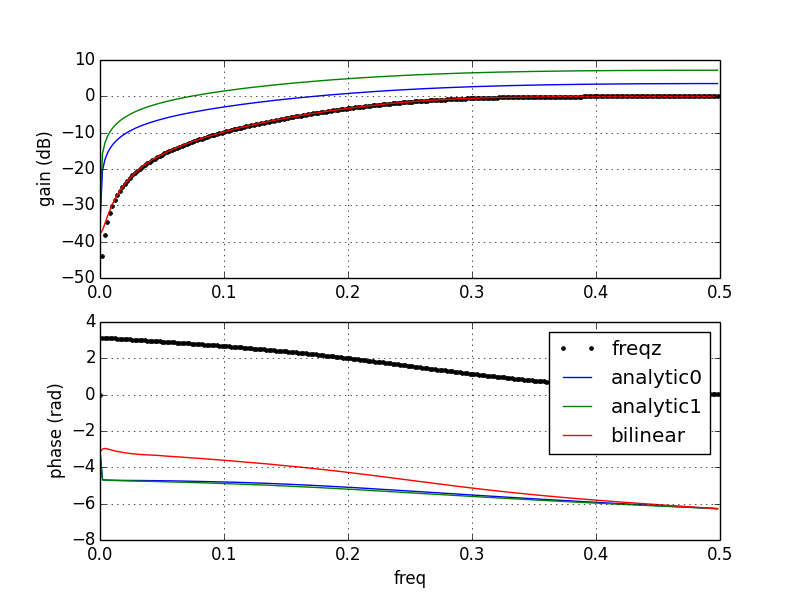
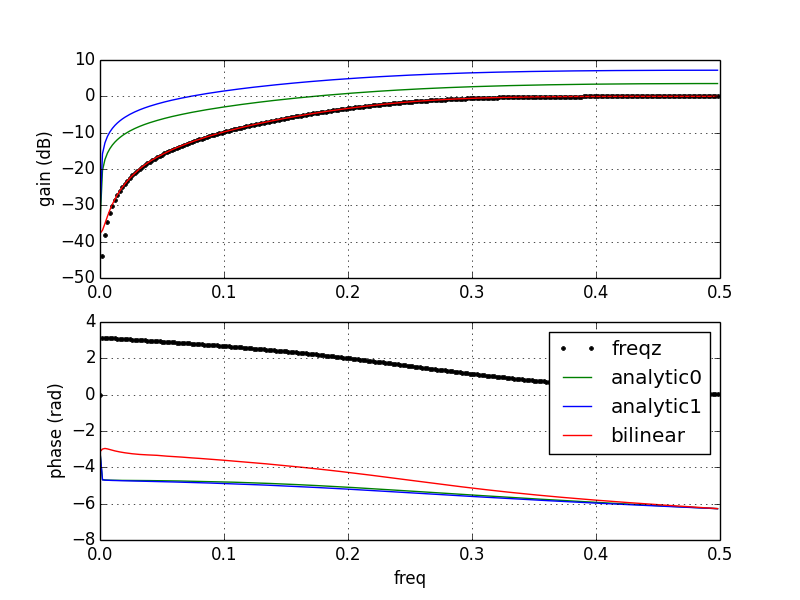
explicitly set comparison plot colors

diff --git a/iir_analyze.py b/iir_analyze.py
@@ -57,13 +57,13 @@ def analyze_filter(sample_freq, cutoff_freq, order, btype):
     plot_inputs('%s-' % btype, input_t, input_x, fft_freq, input_fft)
 
     plot_outputs('%s-' % btype, input_t, fft_freq, [
-        ('lfilter', lfilter_output, lfilter_fft),
-        ('statespace', statespace_output, statespace_fft),
+        ('lfilter', 'black', lfilter_output, lfilter_fft),
+        ('statespace', 'red', statespace_output, statespace_fft),
     ])
 
     plot_transfer_function('%s-' % btype, freqz_freq, freqz_amplitude, freqz_phase, fft_freq, input_fft, [
-        ('lfilter', lfilter_fft),
-        ('statespace', statespace_fft),
+        ('lfilter', 'black', lfilter_fft),
+        ('statespace', 'red', statespace_fft),
     ])
 
 
@@ -85,18 +85,24 @@ def compare_methods(sample_freq, cutoff_freq, order, btype):
 
     # FFT the result of filtering the chirp by all types of filters.
     ffts = {
-        method_name: fft.fft(output)[0:len(fft_freq)] for method_name, output in outputs.iteritems()
+        method: fft.fft(output)[0:len(fft_freq)] for method, output in outputs.iteritems()
     }
 
     # Plot everything: input chirp, filtered chirp, and filter transfer function.
     plot_inputs('compare-%s-' % btype, input_t, input_x, fft_freq, input_fft)
 
+    colors = {
+        'bilinear': 'red',
+        'analytic0': 'green',
+        'analytic1': 'blue',
+    }
+
     plot_outputs('compare-%s-' % btype, input_t, fft_freq, [
-        (method_name, outputs[method_name], ffts[method_name]) for method_name in sorted(outputs.keys())
+        (method, colors[method], outputs[method], ffts[method]) for method in sorted(outputs.keys())
     ])
 
     plot_transfer_function('compare-%s-' % btype, freqz_freq, freqz_amplitude, freqz_phase, fft_freq, input_fft, [
-        (method_name, ffts[method_name]) for method_name in sorted(outputs.keys())
+        (method, colors[method], ffts[method]) for method in sorted(outputs.keys())
     ])
 
 
@@ -158,8 +164,8 @@ def plot_outputs(name_prefix, input_t, fft_freq, outputs):
 
     plt.subplot(311)
 
-    for name, output, output_fft in outputs:
-        plt.plot(input_t, output, label=name)
+    for name, color, output, output_fft in outputs:
+        plt.plot(input_t, output, label=name, color=color)
 
     plt.grid()
     plt.xlabel('time')
@@ -167,8 +173,8 @@ def plot_outputs(name_prefix, input_t, fft_freq, outputs):
 
     plt.subplot(312)
 
-    for name, output, output_fft in outputs:
-        plt.plot(fft_freq, 10 * np.log10(np.abs(output_fft)), label=name)
+    for name, color, output, output_fft in outputs:
+        plt.plot(fft_freq, 10 * np.log10(np.abs(output_fft)), label=name, color=color)
 
     plt.grid()
     plt.xlabel('freq')
@@ -176,8 +182,8 @@ def plot_outputs(name_prefix, input_t, fft_freq, outputs):
 
     plt.subplot(313)
 
-    for name, output, output_fft in outputs:
-        plt.plot(fft_freq, np.unwrap(np.angle(output_fft)), label=name)
+    for name, color, output, output_fft in outputs:
+        plt.plot(fft_freq, np.unwrap(np.angle(output_fft)), label=name, color=color)
 
     plt.grid()
     plt.legend(loc='lower right')
@@ -196,8 +202,8 @@ def plot_transfer_function(name_prefix, freqz_freq, freqz_amplitude, freqz_phase
     plt.subplot(211)
     plt.plot(freqz_freq, 10 * np.log10(freqz_amplitude), '.', color='black', label='freqz')
 
-    for name, output_fft in outputs:
-        plt.plot(fft_freq, 10 * np.log10(np.abs(output_fft)) - 10 * np.log10(np.abs(input_fft)), label=name)
+    for name, color, output_fft in outputs:
+        plt.plot(fft_freq, 10 * np.log10(np.abs(output_fft)) - 10 * np.log10(np.abs(input_fft)), label=name, color=color)
 
     plt.grid()
     plt.ylabel('gain (dB)')
@@ -205,8 +211,8 @@ def plot_transfer_function(name_prefix, freqz_freq, freqz_amplitude, freqz_phase
     plt.subplot(212)
     plt.plot(freqz_freq, freqz_phase, '.', color='black', label='freqz')
 
-    for name, output_fft in outputs:
-        plt.plot(fft_freq, np.unwrap(np.angle(output_fft) - np.angle(input_fft)), label=name)
+    for name, color, output_fft in outputs:
+        plt.plot(fft_freq, np.unwrap(np.angle(output_fft) - np.angle(input_fft)), label=name, color=color)
 
     plt.grid()
     plt.xlabel('freq')
